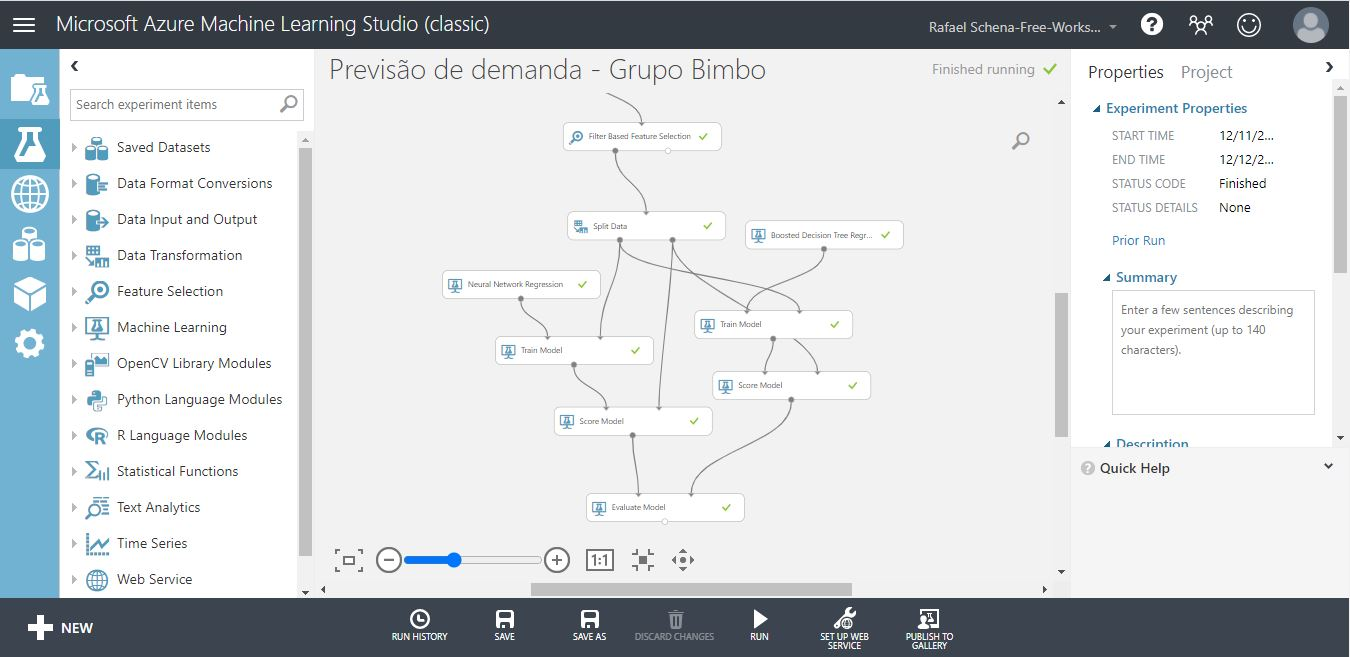
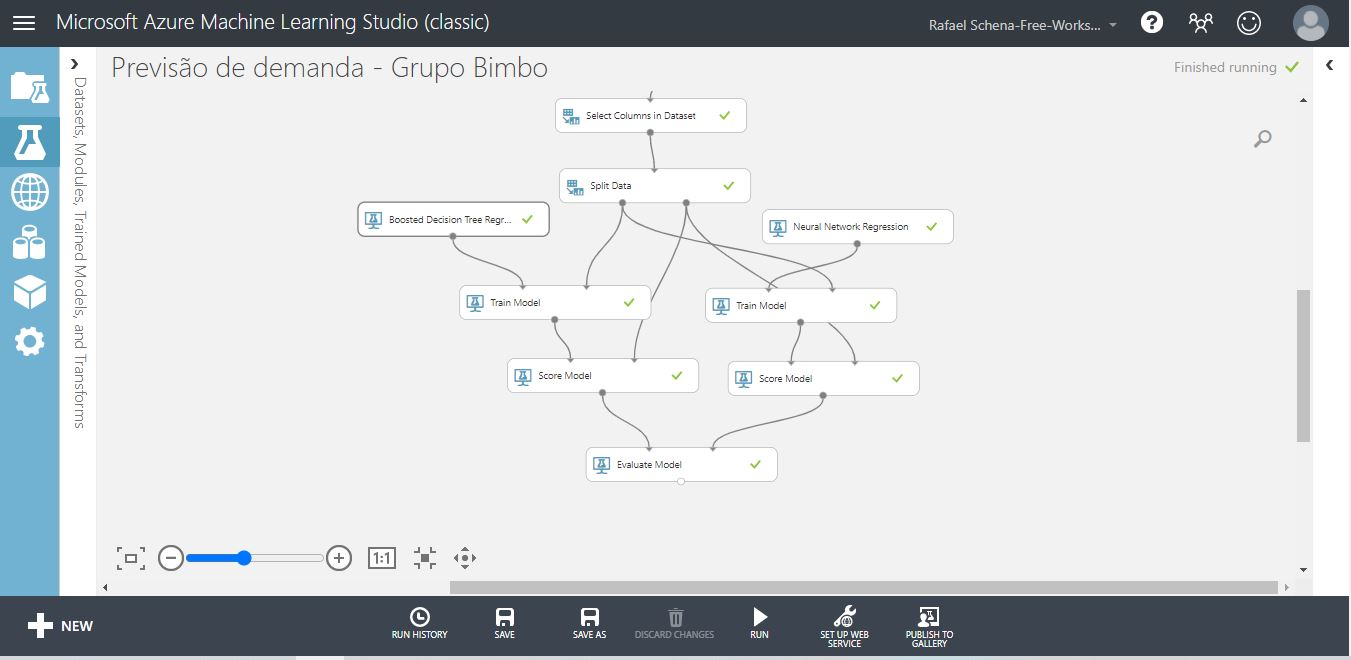
Adicionados novos experimentos no Azure ML

diff --git a/README.md b/README.md
@@ -300,6 +300,7 @@ Para ilustrar a influência dos *outliers* na correlação entre os dados, foram
 ![Figura 13 - Gráfico de correlação com método Pearson sem outliers](img/corr_1_sem_outliers.png)
 ![Figura 14 - Gráfico de correlação com método Spearman sem outliers](img/corr_2_sem_outliers.png)
 
+#### Experimento 1
 Ainda com os *outliers* excluídos foram comparados 2 modelos de regressão para os dados: a regressão de Poisson e o algortimo de regressão *Boosted Decision Tree*. Os resultados podem ser vistos a seguir:
 ![Figura 12 - Modelo1-AzureML](img/modelo1.0_azure.JPG)
 ![Figura 13 - Modelo1-AzureML](img/modelo1.1_azure.JPG)
@@ -307,15 +308,29 @@ Ainda com os *outliers* excluídos foram comparados 2 modelos de regressão para
 
 Pode-se observar que o coeficiente de determinação R² aumentou para 0,284093, porém ainda é um número considerado baixo, de modo que o processo de *data munging* será continuado.
 
-Alternativamente, foi rodado novamente o experimento no AzureML com um *feature selection* das 4 variáveis mais importantes sem a exclusão dos *outliers*, conforme mostrado abaixo, de onde se pode ver que houve um aumento do R².
+#### Experimento 2
+Alternativamente, o experimento foi refeito no AzureML com um *feature selection* das 4 variáveis mais importantes sem a exclusão dos *outliers*, conforme mostrado abaixo, de onde se pode ver que houve um aumento do R².
 ![Figura 15 - Modelo2-AzureML](img/modelo2.0_azure_grif.JPG)
 ![Figura 16 - Modelo2-AzureML](img/modelo2.1_azure_grif.JPG)
 
-Também foi refeito o mesmo experimento com a exclusão apenas dos *ouliers* da variável target, eliminando aproximadamente 13% dos dados de treinamento, o que causou uma diminuição do coeficiente de determinação, conforme mostrado a seguir:
+#### Experimento 3
+O mesmo experimento anterior com a exclusão apenas dos *ouliers* da variável target, eliminando aproximadamente 13% dos dados de treinamento, o que causou uma diminuição do coeficiente de determinação, conforme mostrado a seguir:
 ![Figura 17 - Modelo3-AzureML](img/modelo3.0_azure.JPG)
 ![Figura 18 - Modelo3-AzureML](img/modelo3.1_azure_grif.JPG)
 Ou seja, mesmo com uma exclusão de um número menor de dados *outliers*, houve uma perda na capacidade de generalização do modelo gerado.
 
-Após isso, dado o resultado do último experimento, resolveu-se testar o desempenho sem retirada dos *outliers* e também sem a normalização. A resultado é mostrado abaixo:
+#### Experimento 4
+Dado o resultado do último experimento, resolveu-se testar o desempenho sem retirada dos *outliers* e também sem a normalização. A resultado é mostrado abaixo:
 ![Figura 19 - Modelo4-AzureML](img/modelo4.0_azure.JPG)
 ![Figura 20 - Modelo4-AzureML](img/modelo4.1_azure_grif.JPG)
+
+#### Experimento 5
+Com as mesmas premissas do experimento 4, foi introduzido um modelo de rede neural com 1000 nós ocultos e observou-se os seguintes resultados:
+![Figura 21 - Modelo5-AzureML](img/modelo5.0_azure.JPG)
+![Figura 22 - Modelo5-AzureML](img/modelo5.1_azure.JPG)
+
+#### Experimento 6
+Como o resultado apresentado pelo modelo de rede neural foi bem aquém do que acredita-se que este modelo pode entregar, foram acrescentados os módulos *Tune Model Hyperparameters* para procurar otimizações de parâmetros tanto no modelo de redes neurais quanto no modelo *Boosted Decision Tree Regression*, que foi o modelo que melhor descreve o conjunto de dados até agora. Os resultados são mostrados na figura a seguir:
+![Figura 23 - Modelo6-AzureML](img/modelo6.0_azure.JPG)
+![Figura 24 - Modelo6-AzureML](img/modelo6.1_azure.JPG)
+Nota-se que o ajuste de hiperparâmetros não melhorou significativamente o desempenho do modelo de regressão de rede neural para que pudesse ser considerado como uma boa solução para o problema, ao passo que melhorou o desempenho do modelo *Boosted Decision Tree Regression*.
